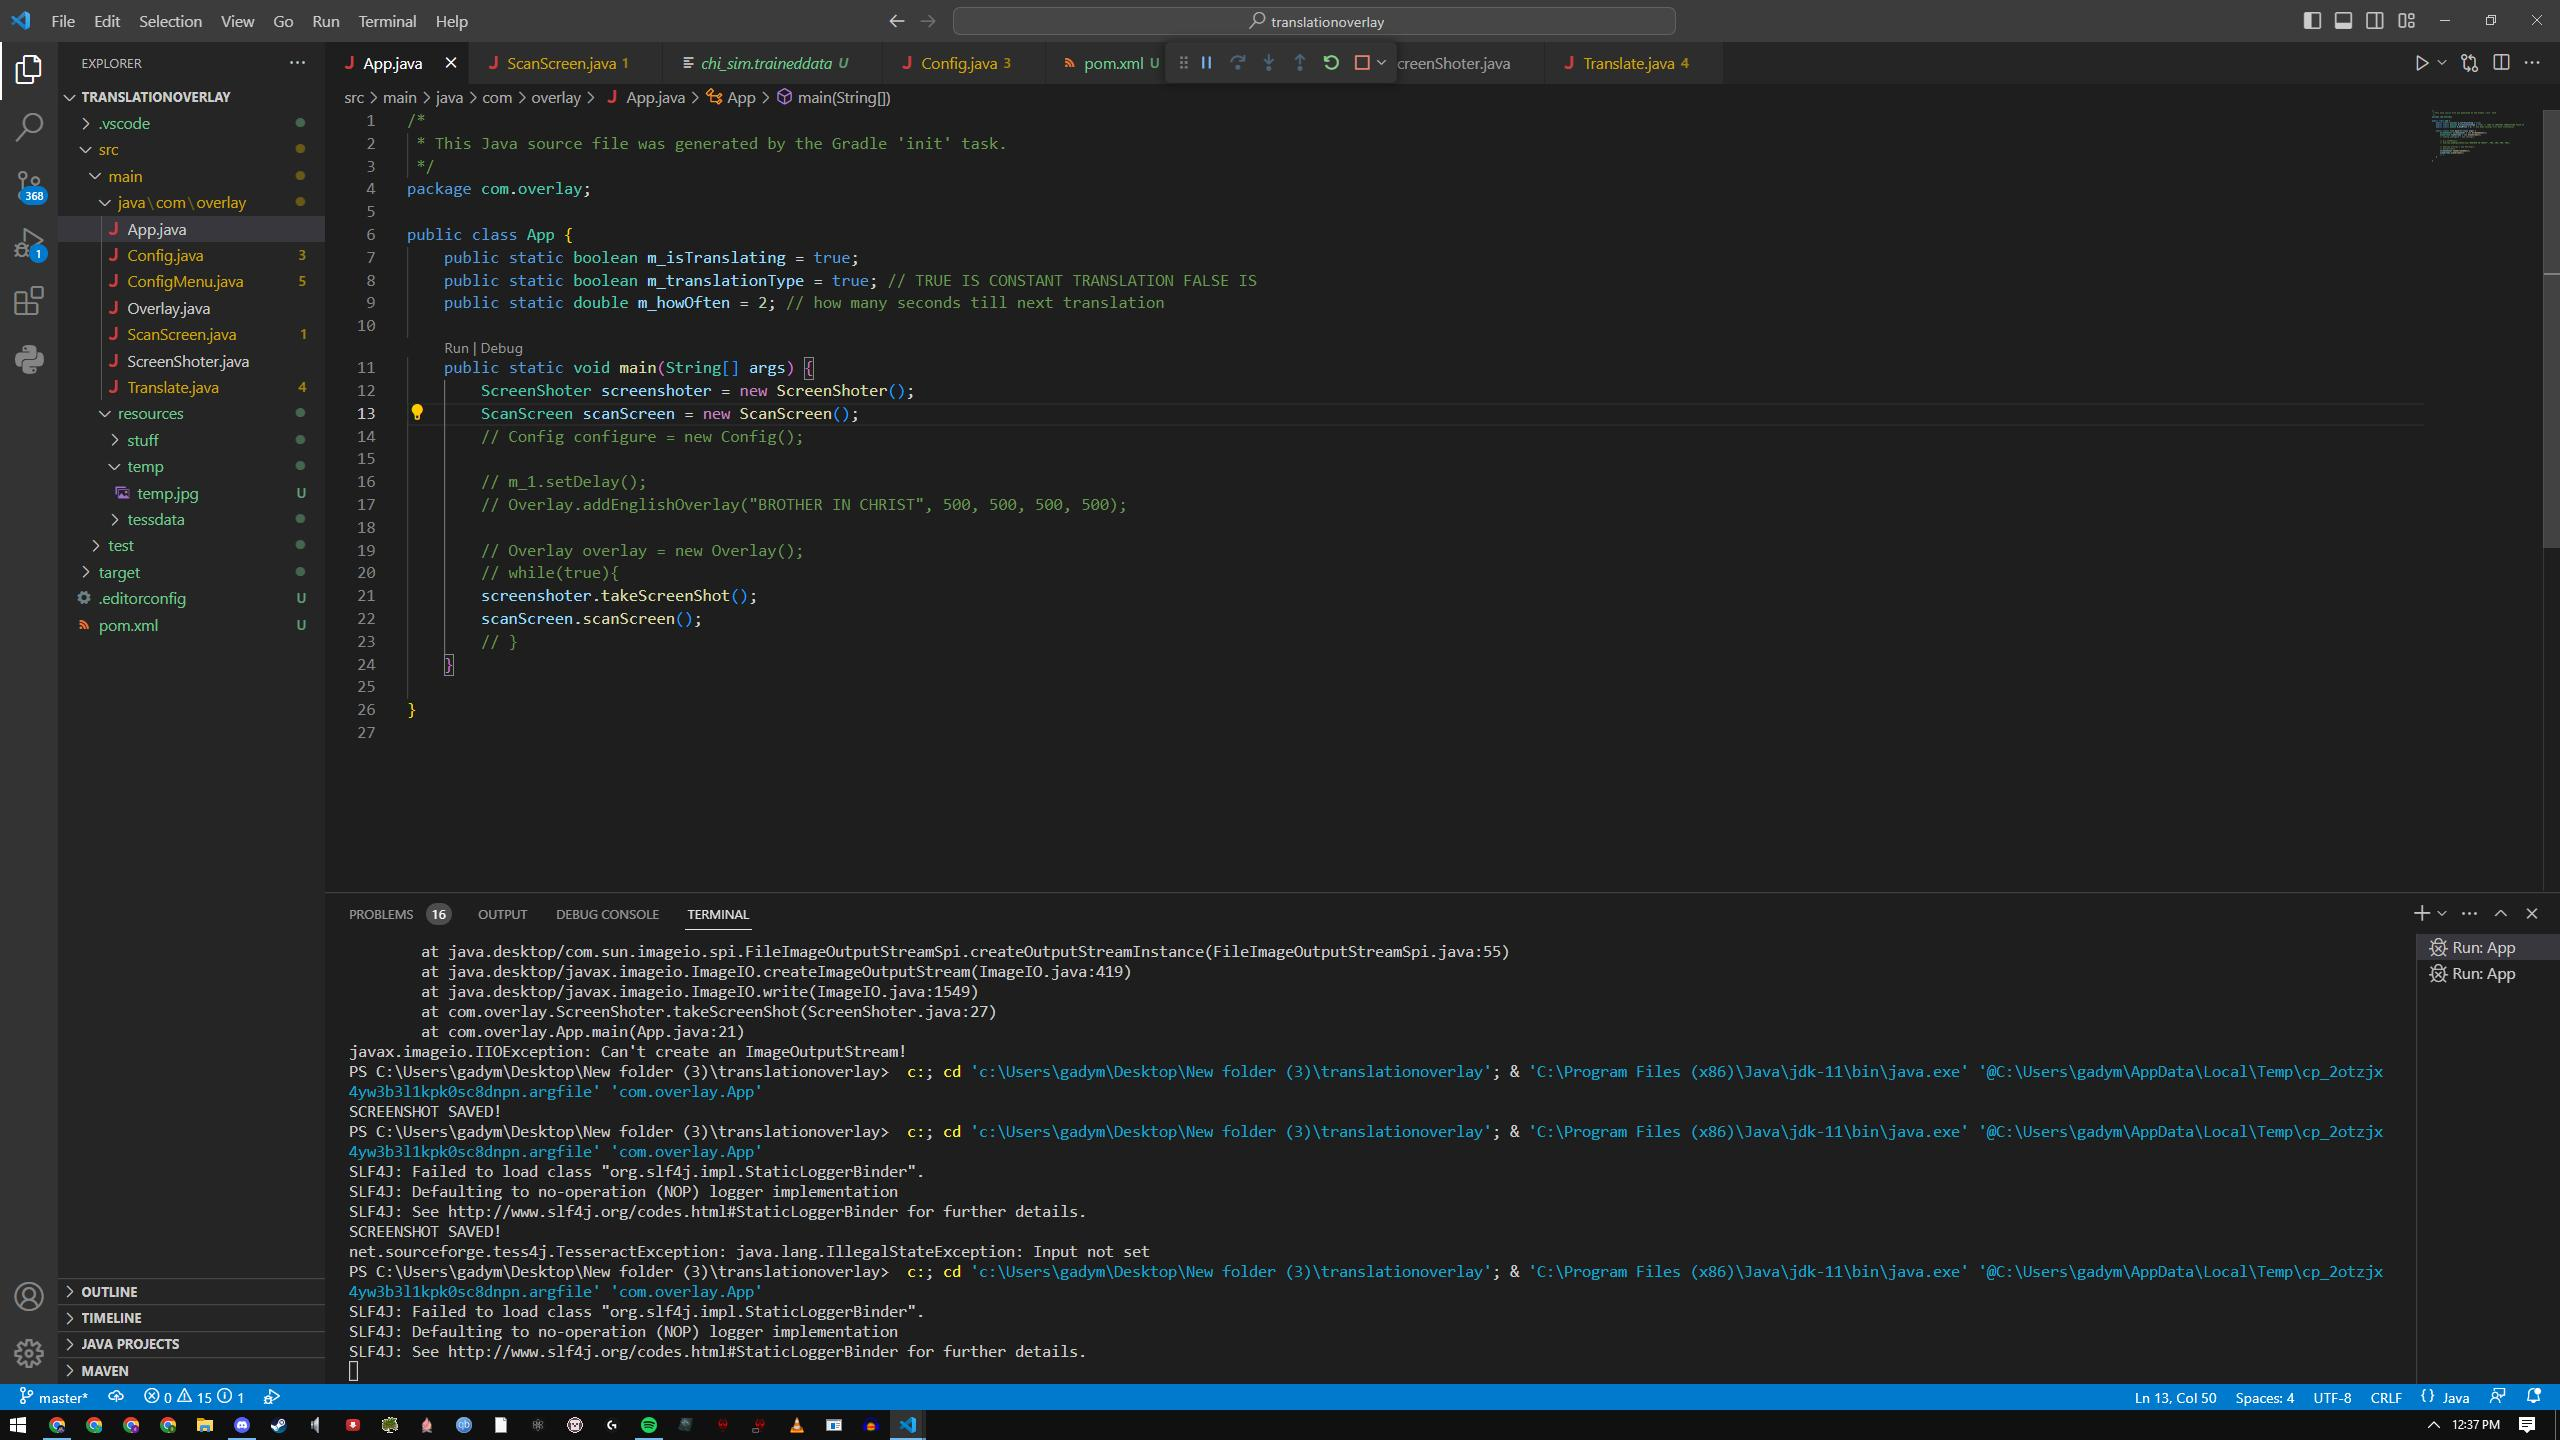
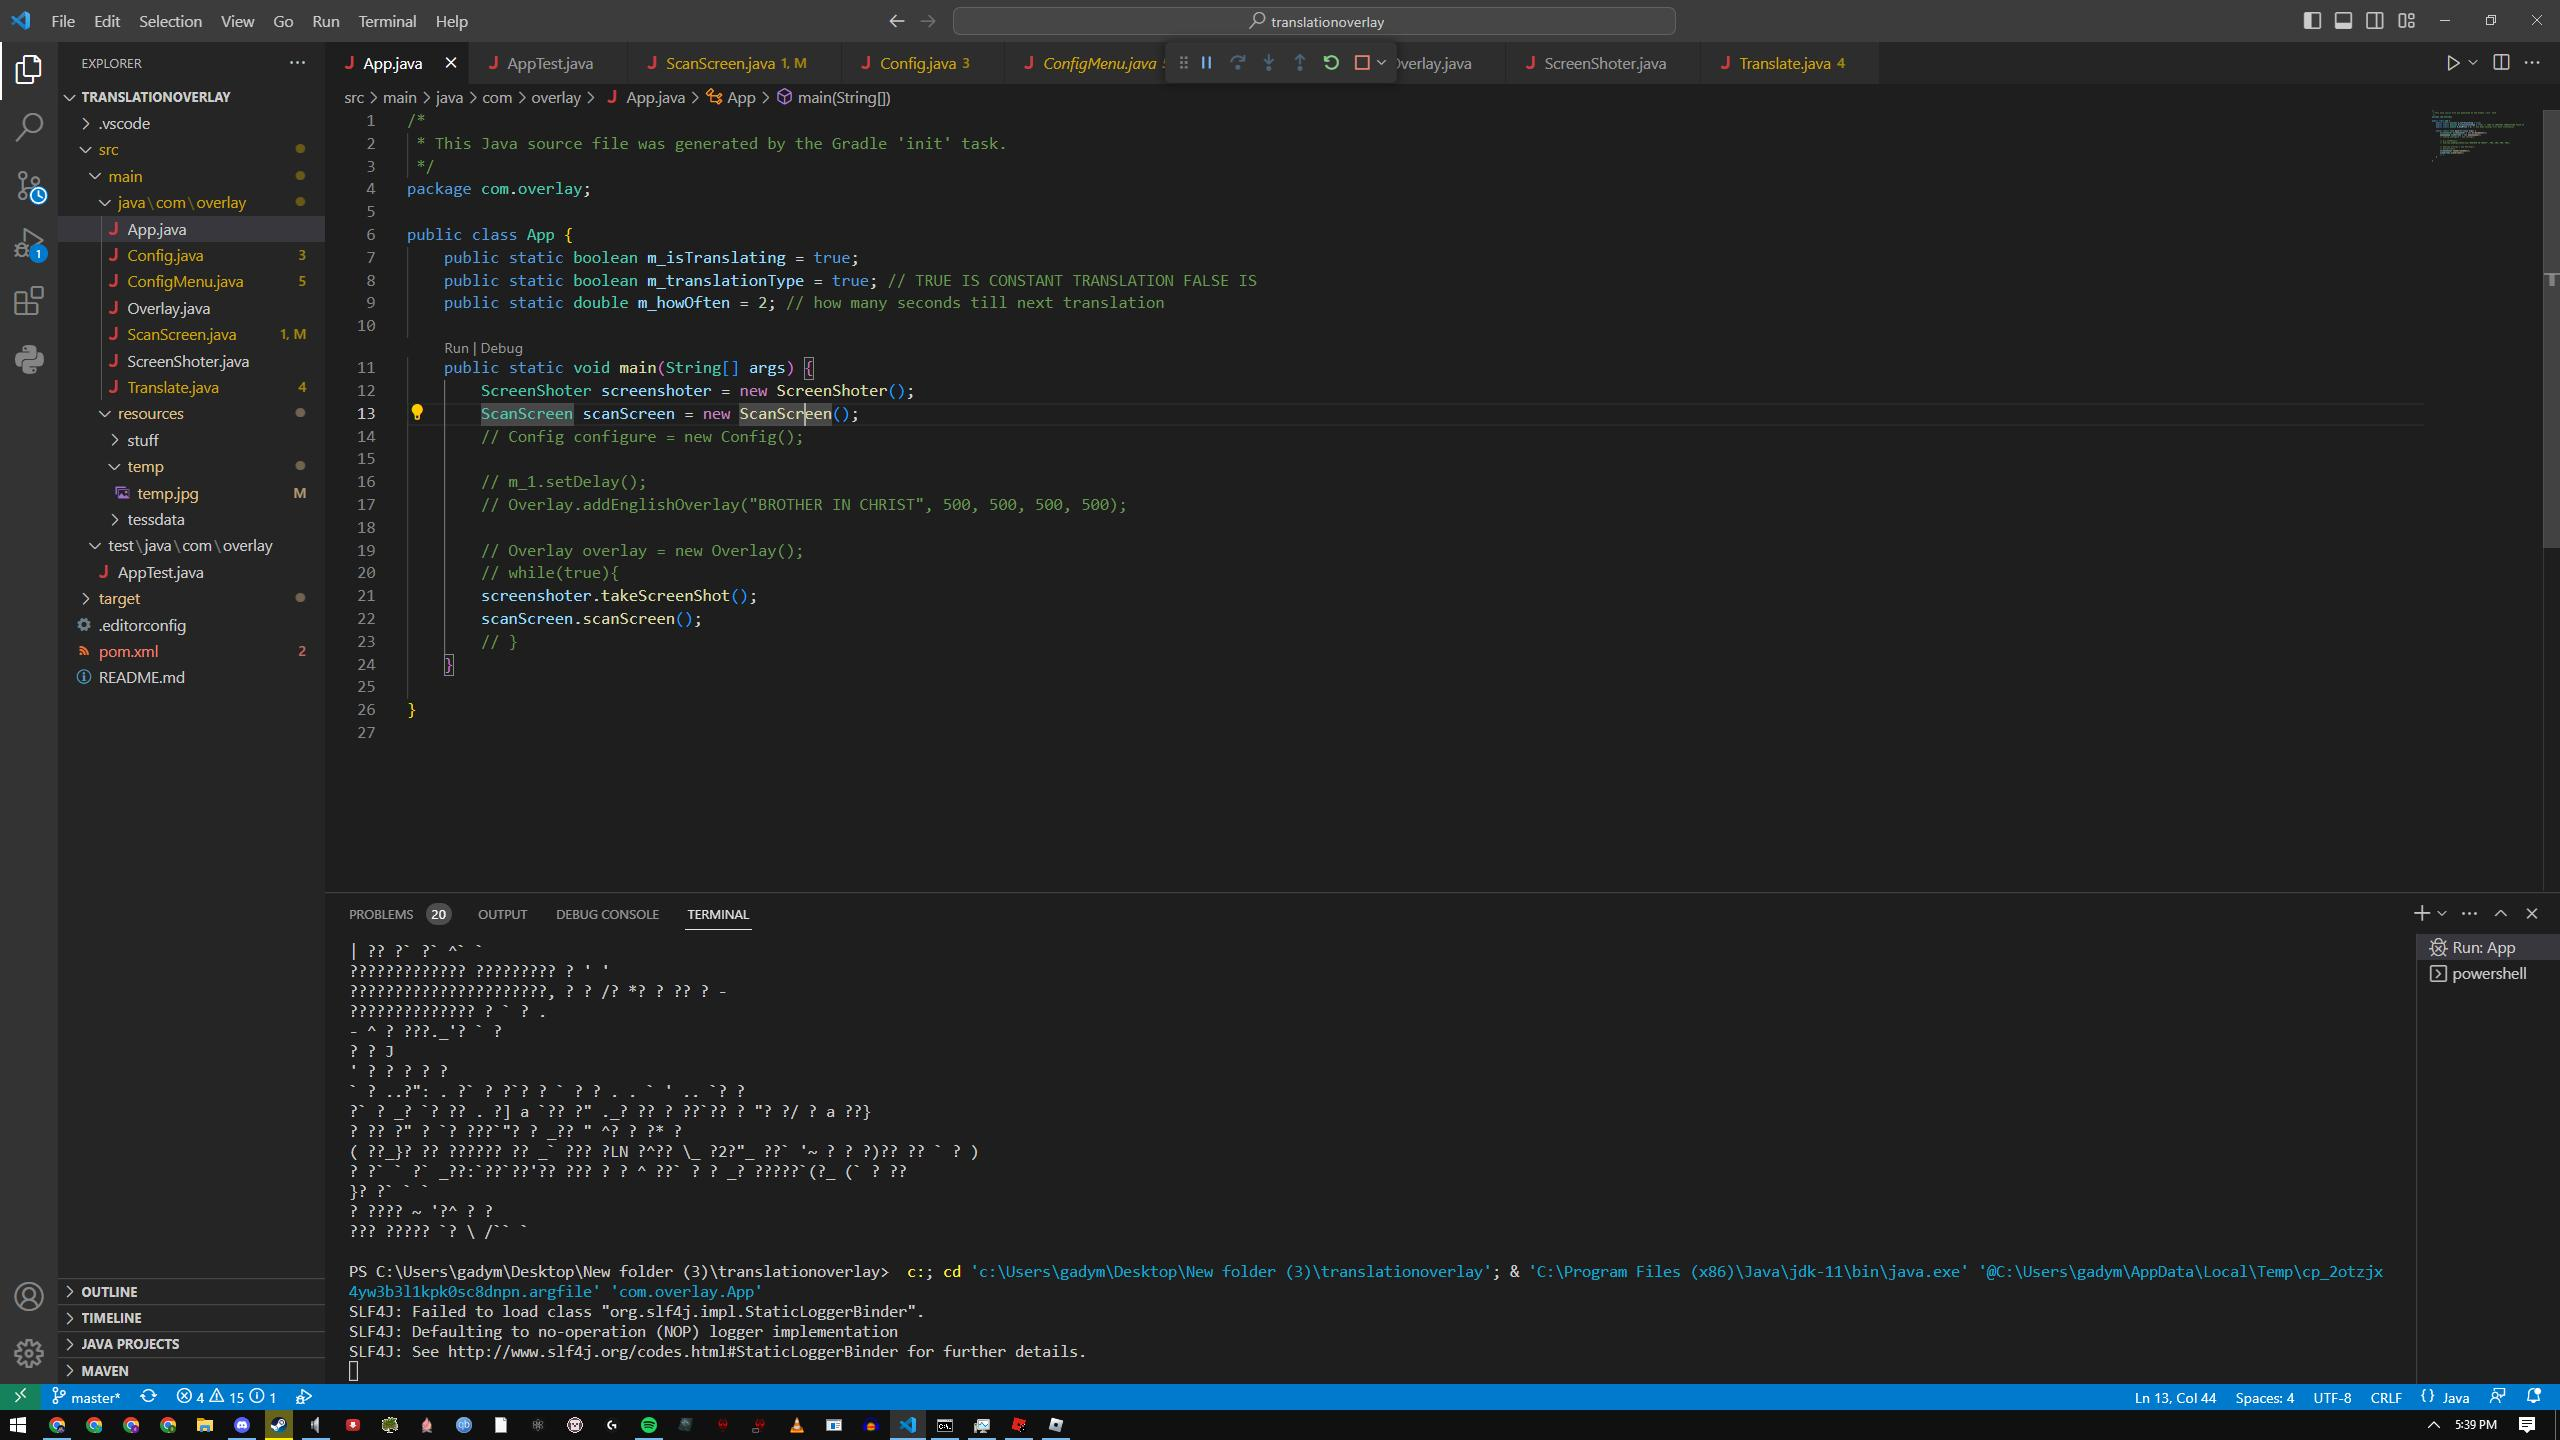
ocr almost working have to speed up and make more efficient

diff --git a/src/main/java/com/overlay/ScanScreen.java b/src/main/java/com/overlay/ScanScreen.java
@@ -11,11 +11,13 @@ public class ScanScreen {
     public Tesseract m_scanner;
     public ScanScreen() {
         m_scanner = new Tesseract();
-        m_scanner.setDatapath("src\\main\\resources\\tessdata\\eng.traineddata"); //("src\\main\\resources\\tessdata\\chi_sim.traineddata");
+        m_scanner.setLanguage("chi_sim");
+        m_scanner.setOcrEngineMode(0);
+        m_scanner.setDatapath("src\\main\\resources\\tessdata"); //("src\\main\\resources\\tessdata\\chi_sim.traineddata");
     }
     public void scanScreen(){
         String mscreen;
-        File temp = new File("C:\\Users\\gadym\\Desktop\\New folder (3)\\translationoverlay\\src\\main\\resources\\temp\\temp.jpg");
+        File temp = new File("src\\main\\resources\\temp\\temp.jpg");//("C:\\Users\\gadym\\Desktop\\New folder (3)\\translationoverlay\\src\\main\\resources\\temp\\temp.jpg");
         Rectangle screenRec = new Rectangle(Toolkit.getDefaultToolkit().getScreenSize());
         try{
             mscreen = m_scanner.doOCR(temp);

diff --git a/src/main/java/com/overlay/App.java b/src/main/java/com/overlay/App.java
@@ -9,17 +9,18 @@ public class App {
     public static double m_howOften = 2; // how many seconds till next translation
 
     public static void main(String[] args) {
-        ScreenShoter screenshoter = new ScreenShoter();
-        ScanScreen scanScreen = new ScanScreen();
-        // Config configure = new Config();
+        // ScreenShoter screenshoter = new ScreenShoter();
+        // 
+        // ScanScreen scanScreen = new ScanScreen();
+        Config configure = new Config();
 
         // m_1.setDelay();
         // Overlay.addEnglishOverlay("BROTHER IN CHRIST", 500, 500, 500, 500);
         
         // Overlay overlay = new Overlay();
         // while(true){
-        screenshoter.takeScreenShot();
-        scanScreen.scanScreen();
+        // screenshoter.takeScreenShot();
+        // scanScreen.scanScreen();
         // }
     }
 
